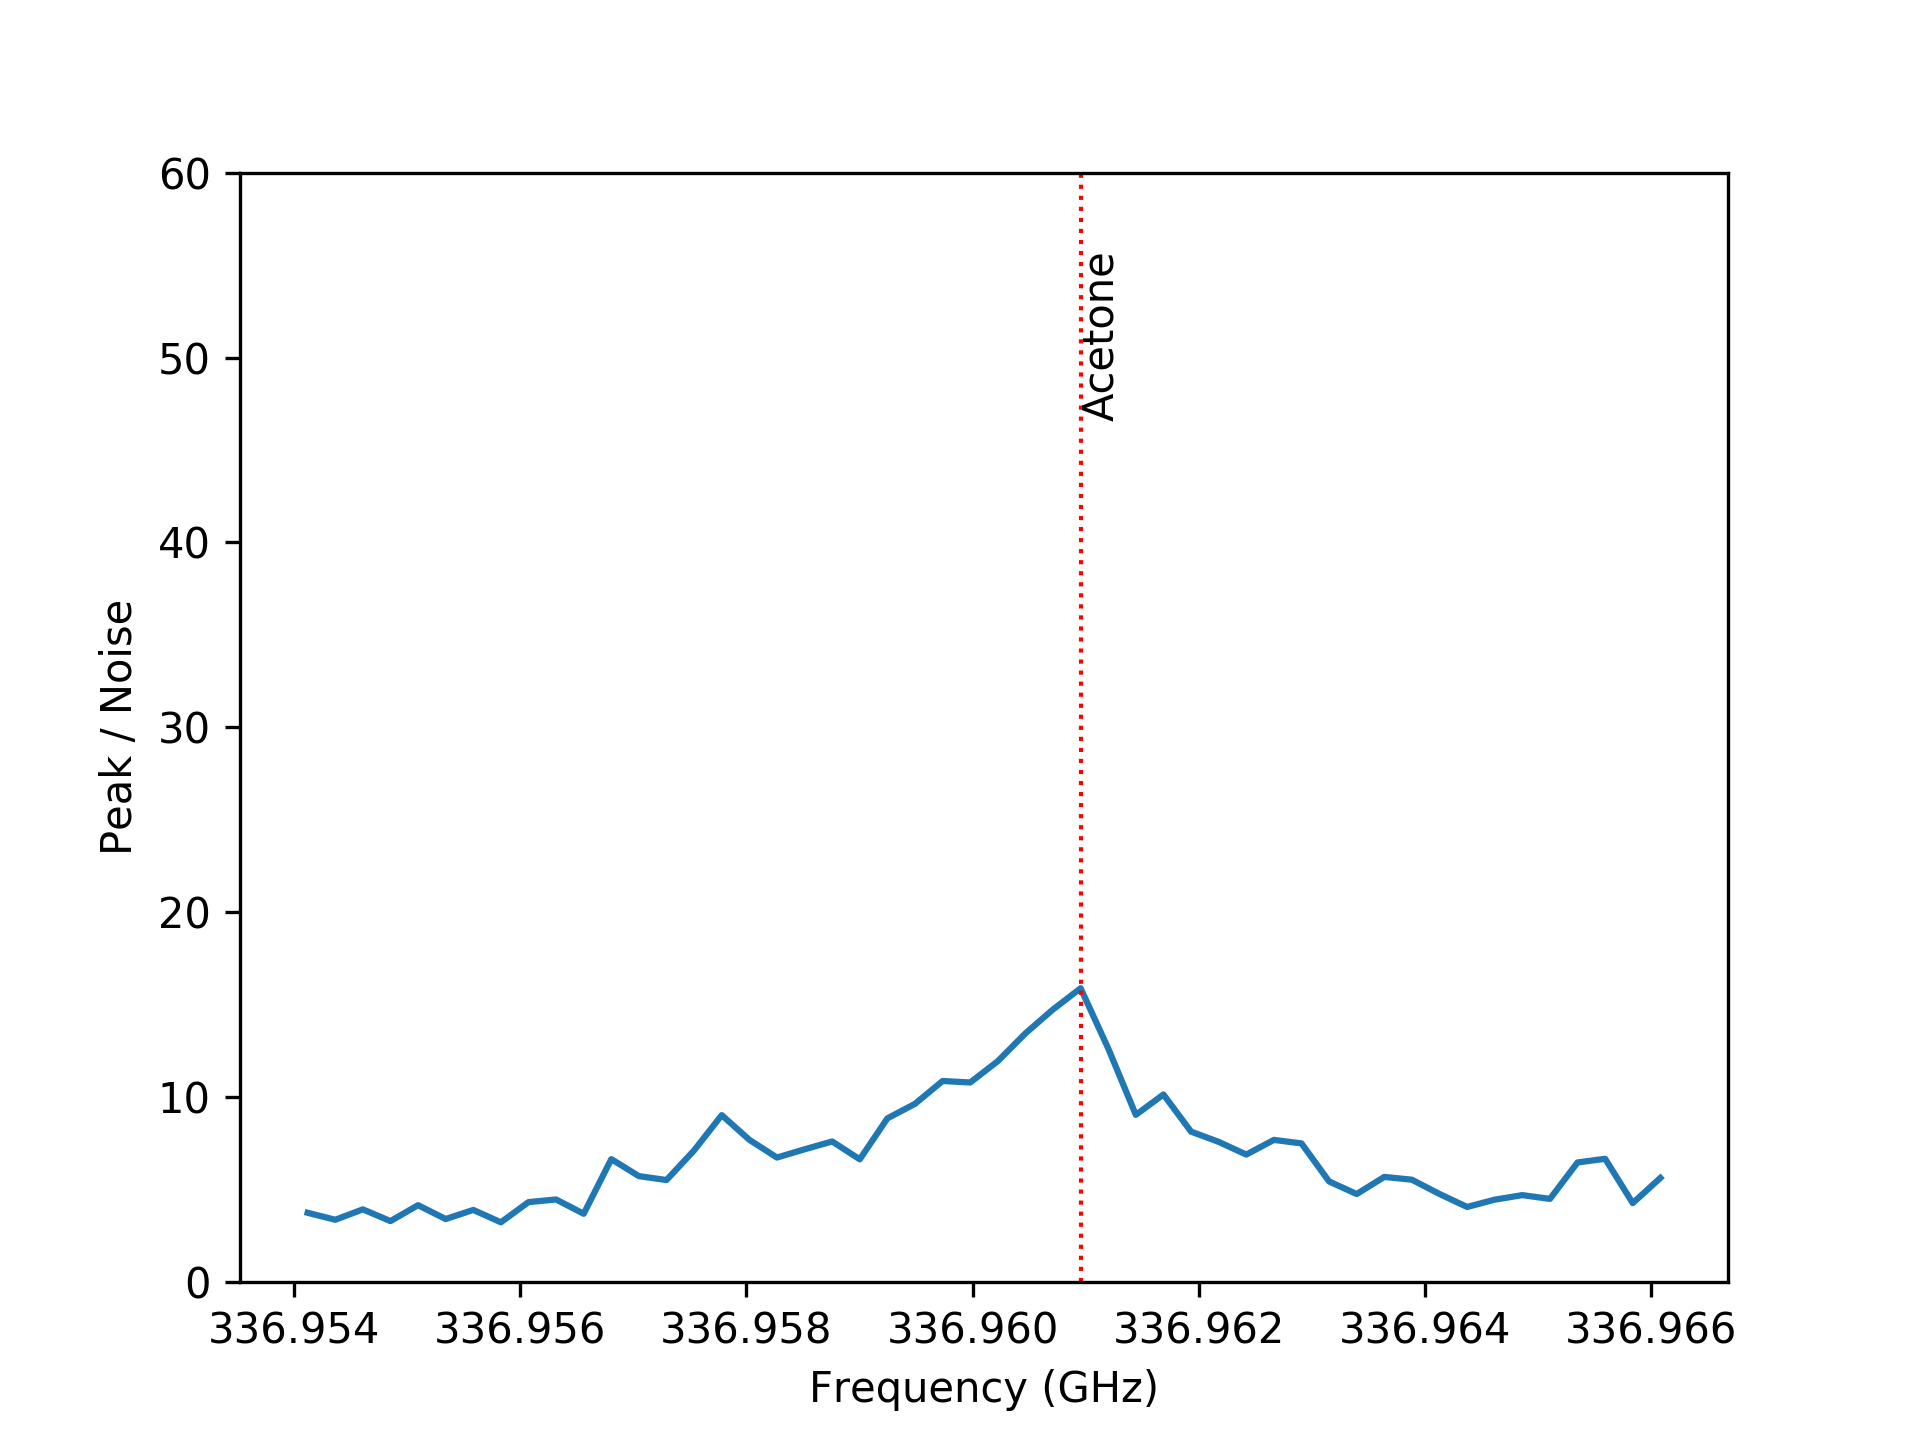
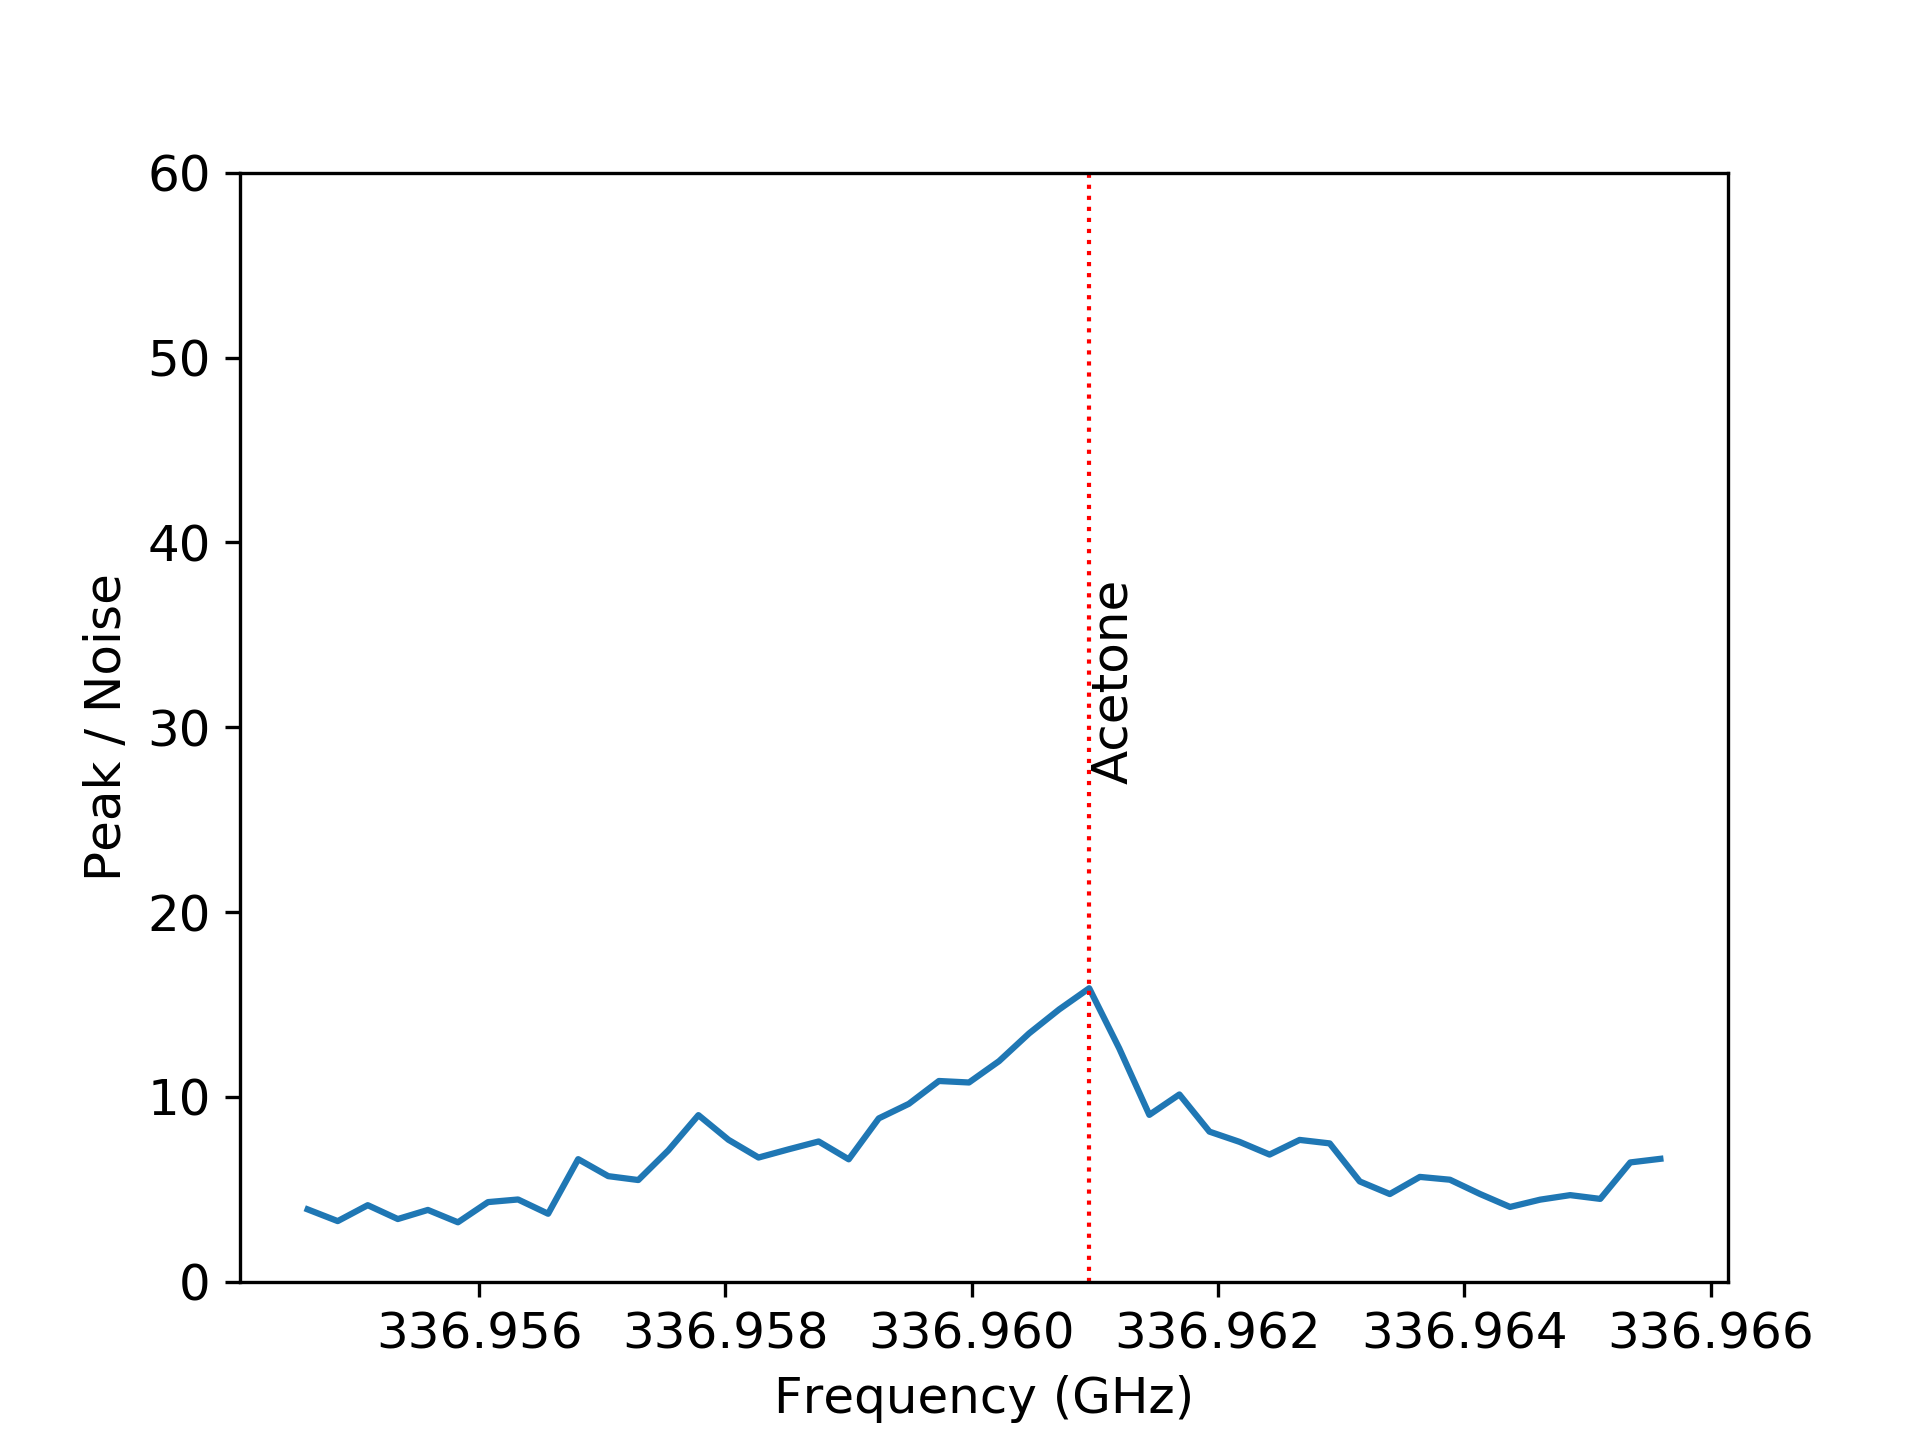
updated figs

diff --git a/workspace/cube_plotter/slice_plotter_2d.py b/workspace/cube_plotter/slice_plotter_2d.py
@@ -2,9 +2,12 @@ import matplotlib.pyplot as plt
 from astropy.wcs import WCS
 from astropy.io import fits
 from astropy.utils.data import get_pkg_data_filename
+import matplotlib
 import matplotlib.pyplot as plt
 from matplotlib.pyplot import text
 import sys
+
+matplotlib.rc("font", size=12)
 
 DATA_BASE_DIR = "/mnt/documents-local/ASTR4998/data/raw/"
 C = 2.99792458E+8
@@ -32,7 +35,7 @@ def plot_individual_line(start_chan, end_chan, freq, y_range, offset_size, name,
     x , y = x[max(0, start_chan - offset) : min(len(x), end_chan + offset)], y[max(0, start_chan - offset) : min(len(x), end_chan + offset)]
     plt.plot(x, y)
     plt.axvline(x=find_peak_x(x, y), linewidth=1.0, color="r", linestyle=":")
-    plt.text(find_peak_x(x, y), y_range * 0.4, name, rotation=90)
+    plt.text(find_peak_x(x, y), y_range * 0.6, name, rotation=90)
     plt.ylim(0, y_range)
     plt.ticklabel_format(useOffset=False)
     plt.xlabel("Frequency (GHz)")
@@ -47,6 +50,6 @@ def find_peak_x(x, y):
 
 
 if __name__ == "__main__":
-    plot_individual_line(97, 124, 336.959, 60, 0, "Acetaldehyde", DATA_BASE_DIR, "SerpS_TC_spw0.pbcor_cutout_180_180_100_line.fits.admit", "testCubeStats.tab")
+    plot_individual_line(97, 124, 336.959, 60, 0.4, "Acetaldehyde", DATA_BASE_DIR, "SerpS_TC_spw0.pbcor_cutout_180_180_100_line.fits.admit", "testCubeStats.tab")
 
 

diff --git a/thesis/thesis.tex b/thesis/thesis.tex
@@ -81,7 +81,7 @@
     \includegraphics[width=0.33\textwidth]{spw0_CH3OH}
     \includegraphics[width=0.33\textwidth]{spw0_CH3CHO}
     
-    \caption{caption here}
+    \caption{Prominent lines in spectral window 0 ($vlsr = 8.0$)}
     
    \end{figure*}
 
